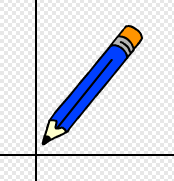
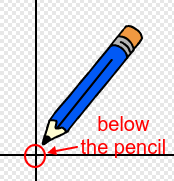
Made instructions clearer and added to FAQ to avoid common issue with incorrect placement of the crosshair in the Paint Box project. Issue #446

diff --git a/en-GB/paint-box/index.md b/en-GB/paint-box/index.md
@@ -53,7 +53,7 @@ Let's start by making a pencil, that can be used to draw on the stage.
 
 	![screenshot](images/paint-center-icon.png)
 
-+ You should notice that a crosshair appears on the costume. You can now click just below the tip of the pencil, to set this point as the costume centre.
++ You should notice that a crosshair appears on the costume. You can now click **just below** the tip of the pencil, to set this point as the costume centre.
 
 	![screenshot](images/paint-pencil-center.png)
 
@@ -66,6 +66,9 @@ Let's start by making a pencil, that can be used to draw on the stage.
 + Test your code again. This time, move the pencil around the stage and hold down the mouse button. Can you draw with your pencil?
 
 	![screenshot](images/paint-draw.png)
+	
+	If not, check that you placed the crosshair **just below** the tip of the pencil, *not* on the tip of the pencil. 
+
 
 ## Save your project { .save }
 

diff --git a/en-GB/paint-box/Paint Box - notes.md b/en-GB/paint-box/Paint Box - notes.md
@@ -39,3 +39,4 @@ For club members that aren't able to access these project resources, there is a 
 
 #Frequently Asked Questions
 + Changes in a sprite's 'costume center' isn't registered until another tab is clicked. Children should click on another costume, or on the 'Scripts' tab to finalise changes to the costume center.
++ The crosshair for the pencil must be placed **just below** the tip of the pencil, not on the tip of the pencil. If the crosshair is on the pencil then Scratch just thinks you are moving the sprite around in the editor. If the pencil doesn't draw correctly then then crosshair has probably been placed on the tip of the pencil (which does seem logical) and needs to be moved just below the pencil.  
